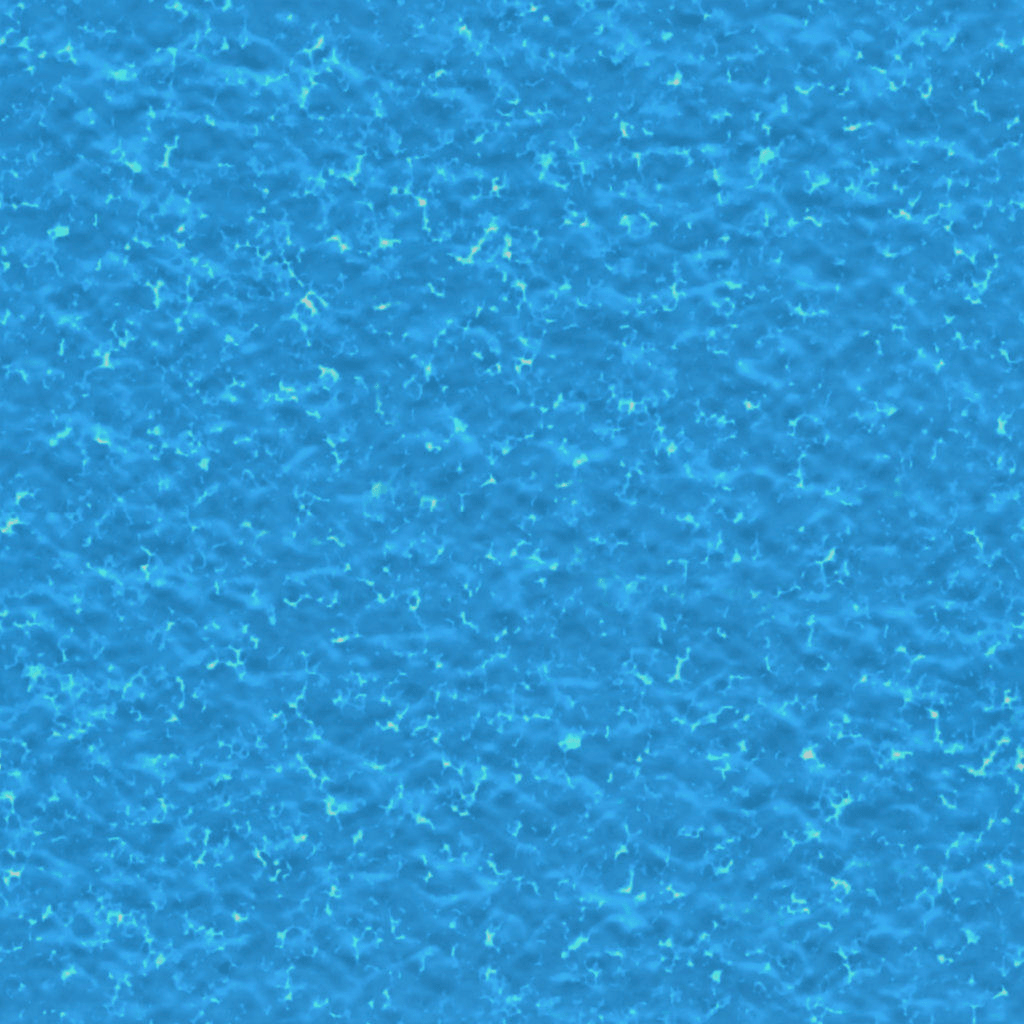
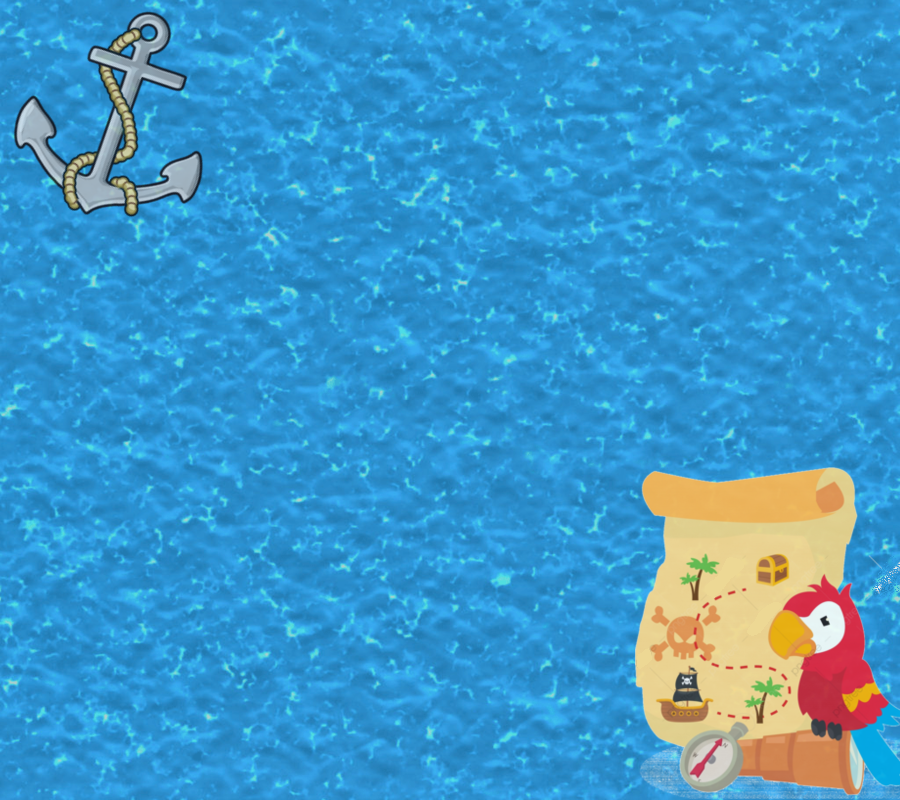
style updated

Changed region(s): [[0.6844, 0.5625, 1.0, 1.0], [0.0, 0.0, 0.2489, 0.2812], [0.9956, 0.6875, 1.0, 0.7188]]

diff --git a/index.html b/index.html
@@ -16,7 +16,7 @@
             <p>Use arrow keys to get to the bottom of the chains and cut them before the Pirate pulls you too close!</p>
             <button type="button" class="btn btn-outline-dark">Start Game</button>
         </article>
-    <img class="backPic" src="imgs/startScreen.png" alt="sea surface">
+    <img class="backPic" src="imgs/startScreen1.png" alt="sea surface">
 </section>
 
 <section class="restart">
